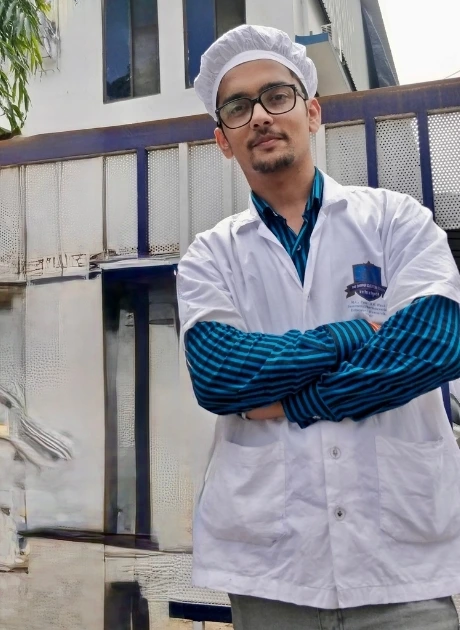
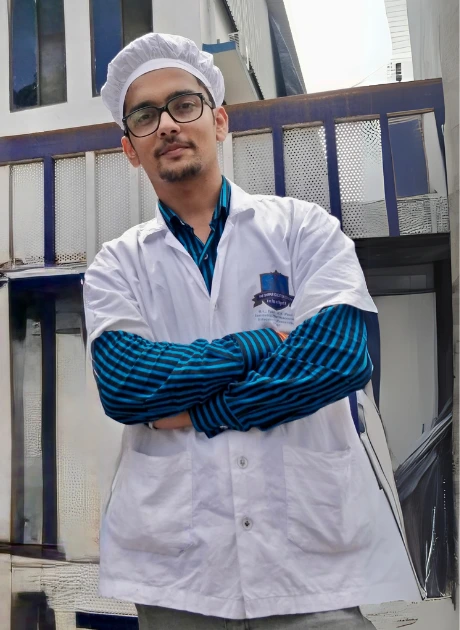
commit

diff --git a/index.html b/index.html
@@ -629,7 +629,7 @@
                                 <i class="ri-map-pin-line"></i>
                             </span>
                             <h2>Based in:</h2>
-                            <p>Mumbai, Maharashtra</p>
+                            <p>Pune, India</p>
                         </div>
                         <!-- / END CONTACT SINGLEDESIGN AREA -->
                         <!-- START CONTACT SINGLEDESIGN AREA -->
@@ -726,7 +726,7 @@
                             <div class="row">
                                 <div class="col-md-6">
                                     <div class="form-group">
-                                        <label for="name">Full Name</label>
+                                        <label for="name">Full Name <span style="color: rgb(247, 25, 25);">*</span></label>
                                         <input type="text" id="name" class="form-control" value="" placeholder="Your Name" required="" data-error="Please enter your Name" />
                                         <label for="name" class="for-icon"><i class="far fa-user"></i></label>
                                         <div class="help-block with-errors"></div>
@@ -734,16 +734,24 @@
                                 </div>
                                 <div class="col-md-6">
                                     <div class="form-group">
-                                        <label for="email">Email Address</label>
+                                        <label for="email">Email Address <span style="color: rgb(247, 25, 25);">*</span></label>
                                         <input type="email" id="email" class="form-control" value="" placeholder="hello@gmail.com" required="" data-error="Please enter your Email" />
                                         <label for="email" class="for-icon"><i class="far fa-envelope"></i></label>
                                         <div class="help-block with-errors"></div>
                                     </div>
                                 </div>
-                                <div class="col-md-12">
+                                <div class="col-md-6">
                                     <div class="form-group">
                                         <label for="name">Subject</label>
-                                        <input type="text" id="subject" class="form-control" value="" placeholder="Your Subject" required="" data-error="Please enter your Name" />
+                                        <input type="text" id="subject" class="form-control" value="" placeholder="Your Subject" data-error="Please enter your Name" />
+                                        <label for="name" class="for-icon"><i class="far fa-user"></i></label>
+                                        <div class="help-block with-errors"></div>
+                                    </div>
+                                </div>
+                                <div class="col-md-6">
+                                    <div class="form-group">
+                                        <label for="name">Contact Number</label>
+                                        <input type="number" id="Contact Number" class="form-control" value="" placeholder="Your Contact Number" data-error="Please enter your Contact Number" />
                                         <label for="name" class="for-icon"><i class="far fa-user"></i></label>
                                         <div class="help-block with-errors"></div>
                                     </div>
@@ -751,7 +759,7 @@
                                 <div class="col-md-12">
                                     <div class="form-group">
                                         <label for="message">Your Message</label>
-                                        <textarea name="message" id="message" class="form-control" rows="4" placeholder="Write Your message" required="" data-error="Please Write your Message"></textarea>
+                                        <textarea name="message" id="message" class="form-control" rows="4" placeholder="Write Your message" data-error="Please Write your Message"></textarea>
                                         <div class="help-block with-errors"></div>
                                     </div>
                                 </div>
@@ -839,6 +847,17 @@
           img.src = originalSrc;
         });
     </script>       -->
+    <script>
+        const profileImage = document.getElementById('profile-image');
+      
+        profileImage.addEventListener('mouseenter', () => {
+          profileImage.src = 'assets/images/about/me-hover.webp';
+        });
+      
+        profileImage.addEventListener('mouseleave', () => {
+          profileImage.src = 'assets/images/about/me.webp';
+        });
+      </script>
 </body>
 
 </html>

diff --git a/contact.html b/contact.html
@@ -176,7 +176,7 @@
                                 <i class="ri-map-pin-line"></i>
                             </span>
                             <h2>Based in:</h2>
-                            <p>Mumbai, Maharashtra</p>
+                            <p>Pune, India</p>
                         </div>
                         <!-- / END CONTACT SINGLEDESIGN AREA -->
                         <!-- START CONTACT SINGLEDESIGN AREA -->
@@ -224,7 +224,7 @@
                             <div class="row">
                                 <div class="col-md-6">
                                     <div class="form-group">
-                                        <label for="name">Full Name</label>
+                                        <label for="name">Full Name <span style="color: rgb(247, 25, 25);">*</span></label>
                                         <input type="text" id="name" class="form-control" value="" placeholder="Your Name" required="" data-error="Please enter your Name" />
                                         <label for="name" class="for-icon"><i class="far fa-user"></i></label>
                                         <div class="help-block with-errors"></div>
@@ -232,16 +232,24 @@
                                 </div>
                                 <div class="col-md-6">
                                     <div class="form-group">
-                                        <label for="email">Email Address</label>
+                                        <label for="email">Email Address <span style="color: rgb(247, 25, 25);">*</span></label>
                                         <input type="email" id="email" class="form-control" value="" placeholder="hello@gmail.com" required="" data-error="Please enter your Email" />
                                         <label for="email" class="for-icon"><i class="far fa-envelope"></i></label>
                                         <div class="help-block with-errors"></div>
                                     </div>
                                 </div>
-                                <div class="col-md-12">
+                                <div class="col-md-6">
                                     <div class="form-group">
                                         <label for="name">Subject</label>
-                                        <input type="text" id="subject" class="form-control" value="" placeholder="Your Subject" required="" data-error="Please enter your Name" />
+                                        <input type="text" id="subject" class="form-control" value="" placeholder="Your Subject" data-error="Please enter your Name" />
+                                        <label for="name" class="for-icon"><i class="far fa-user"></i></label>
+                                        <div class="help-block with-errors"></div>
+                                    </div>
+                                </div>
+                                <div class="col-md-6">
+                                    <div class="form-group">
+                                        <label for="name">Contact Number</label>
+                                        <input type="number" id="Contact Number" class="form-control" value="" placeholder="Your Contact Number" data-error="Please enter your Contact Number" />
                                         <label for="name" class="for-icon"><i class="far fa-user"></i></label>
                                         <div class="help-block with-errors"></div>
                                     </div>
@@ -249,7 +257,7 @@
                                 <div class="col-md-12">
                                     <div class="form-group">
                                         <label for="message">Your Message</label>
-                                        <textarea name="message" id="message" class="form-control" rows="4" placeholder="Write Your message" required="" data-error="Please Write your Message"></textarea>
+                                        <textarea name="message" id="message" class="form-control" rows="4" placeholder="Write Your message" data-error="Please Write your Message"></textarea>
                                         <div class="help-block with-errors"></div>
                                     </div>
                                 </div>

diff --git a/how-i-got-my-first-client-story.html b/how-i-got-my-first-client-story.html
@@ -267,7 +267,7 @@
     </div>
 
   <!-- Heading -->
-    <div class="story-page-heading">How I Got a 10M+ Creator as My First Cliente</div>
+    <div class="story-page-heading">How I Got a 10M+ Creator as My First Client</div>
 
   <!-- Content container -->
   <div class="story-page-container">
@@ -281,13 +281,13 @@
 
     <p class="story-page-text">I applied for a few jobs. Got rejected. But I didn’t stop. I switched gears.</p>
 
-    <p class="story-page-text">I started learning freelancing. Took classes. Built fake brands. Showed fake results — to prove real skills. I built a portfolio out of thin air.</p>
+    <p class="story-page-text">I started learning freelancing. Took classes. Built imaginary brands. Showed generated results — to prove real skills. I built a portfolio out of thin air.</p>
 
     <p class="story-page-text">Then one day, I was casually going through Instagram stories…</p>
 
     <blockquote class="story-page-quote">
       “We’re hiring a Social Media Manager. Email us.” <br/>
-      It was Indian Farmer — a huge creator with over 10 million followers across platforms.
+      It was Indian Farmer — a huge creator with over 5 million followers (in 2023) across platforms.
     </blockquote>
 
     <p class="story-page-text">I was barely 2–3 months into this field. No real client work. Just my hustle and hunger.</p>
@@ -296,7 +296,7 @@
 
     <p class="story-page-text">I waited. 1 day. 3 days. 7 days. By Day 10, I had moved on.</p>
 
-    <p class="story-page-text"><strong>Day 11 —</strong> I casually checked my inbox. One new message.</p>
+    <p class="story-page-text"><strong>Day 12 —</strong> I casually checked my inbox. One new message.</p>
 
     <blockquote class="story-page-quote">
       “Can you share your number? Let’s connect.”

diff --git a/youtube-portfolio.html b/youtube-portfolio.html
@@ -156,7 +156,7 @@
             <div class="row align-items-center">
                 <div class="col-lg-12">
                     <h2>Youtube Portfolio</h2>
-                    <p>From Views to Loyal Fans: Explore the Growth I’ve Driven Through YouTube Campaigns.</p>
+                    <p>From Views to Loyal Fans: Explore the Growth I’ve Driven Through YouTube Organic Content.</p>
                 </div>
             </div>
         </div>
@@ -254,6 +254,13 @@
         </div>
     </div>
     <!-- // END PORTFOLIO DESIGN AREA -->
+    <div class="portfolio-disclamer-section">
+        <div class="portfolio-disclamer-card">
+            <p>
+                Disclaimer: The data shown is a representation and not from the client’s actual account — though the results are aligned with what i've achieved.
+            </p>
+        </div>
+     </div>
     <!-- START FOOTER DESIGN AREA -->
     <footer class="main-footer">
         <div class="container">

diff --git a/about.html b/about.html
@@ -407,11 +407,7 @@
                 Graduating during the 2020 lockdown, I felt like I had a degree and no direction.
             </p>
             <p>
-                I got my pharmacy license. Looked at MBA programs. Considered government exams.
-                Nothing felt right.
-            </p>
-            <p>
-                So I worked at a local pharmacy while searching every morning for something more.
+                I worked at a local pharmacy while searching every morning for something more. Then I got my pharmacy license, looked at MBA programs, considered government exams — but nothing felt right.
             </p>
             <p>
                 <span style="background-color: #fff8e1cd;padding: 4px;font-size: 96%;"><b>That “more” turned out to be digital marketing — and the moment I touched it, I knew.</b></span>

diff --git a/assets/css/custom.css b/assets/css/custom.css
@@ -15,6 +15,13 @@
     color: #75d303;
     font-size: 14px;
 }
+/* .hero-image img {
+    transition: transform 0.5s ease;
+}
+  
+.hero-image img:hover {
+    transform: rotate(5deg);
+} */
 
 @media(max-width:1420px){
     .available-btn{
@@ -121,4 +128,19 @@
     .portfolio-disclamer-section .portfolio-disclamer-card p{
         font-size: 14px;
     }
+    .hero-content h2 {
+        background: radial-gradient(#5708b0, #150033);
+        -webkit-background-clip: text;
+        -webkit-text-fill-color: transparent;
+        transition: all ease-in-out .3s;
+    
+        background-clip: text;
+        text-fill-color: transparent;
+    }
+    .scroller__inner {
+        gap: 80px;
+        gap: 0rem;
+    }
 }
+
+

diff --git a/instagram-portfolio.html b/instagram-portfolio.html
@@ -256,7 +256,7 @@
          <div class="portfolio-disclamer-section">
             <div class="portfolio-disclamer-card">
                 <p>
-                    Disclaimer: The data shown is a representation and not from the client’s actual account — though the results are aligned with what we’ve achieved.
+                    Disclaimer: The data shown is a representation and not from the client’s actual account — though the results are aligned with what i've achieved.
                 </p>
             </div>
          </div>

diff --git a/linkedin-portfolio.html b/linkedin-portfolio.html
@@ -254,6 +254,13 @@
         </div>
     </div>
     <!-- // END PORTFOLIO DESIGN AREA -->
+    <div class="portfolio-disclamer-section">
+        <div class="portfolio-disclamer-card">
+            <p>
+                Disclaimer: The data shown is a representation and not from the client’s actual account — though the results are aligned with what i've achieved.
+            </p>
+        </div>
+     </div>
     <!-- START FOOTER DESIGN AREA -->
     <footer class="main-footer">
         <div class="container">
